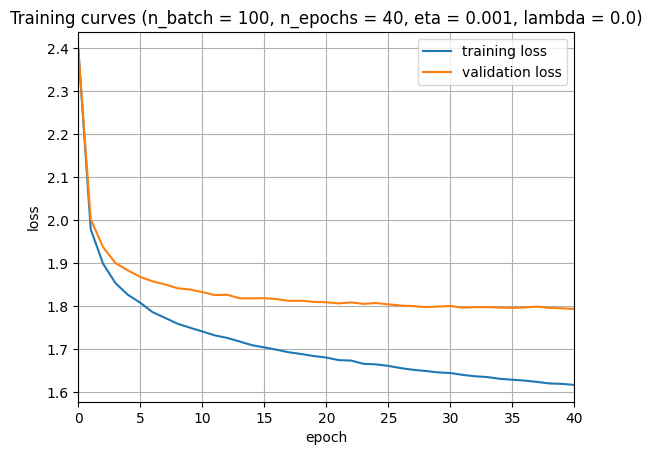
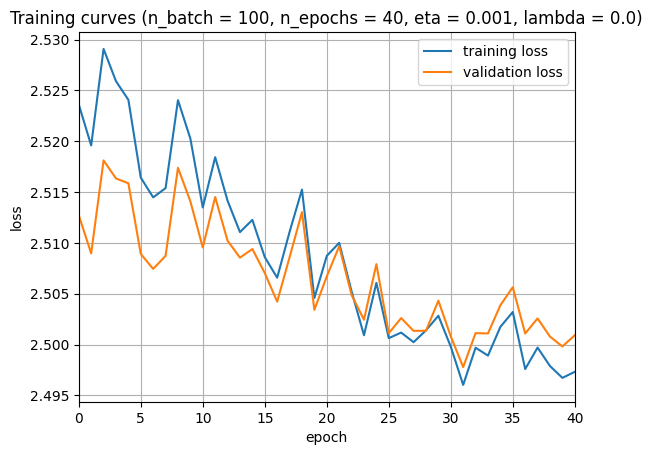
two layer classifier working

diff --git a/src/nnClassifier/models/train_model.py b/src/nnClassifier/models/train_model.py
@@ -2,6 +2,7 @@ import numpy as np
 import matplotlib.pyplot as plt
 import tqdm
 import json
+import copy
 from abc import ABC, abstractmethod
 from typing import List
 
@@ -30,6 +31,7 @@ class Model(ABC):
         self.Y_train = Y_train
         self.gd_params = gd_params
         self.lamda = lamda
+        self.validation = validation
         if validation:
             self.X_val = validation[0]
             self.Y_val = validation[1]
@@ -49,7 +51,7 @@ class Model(ABC):
     def _compute_gradients(self, X_batch: np.ndarray, Y_batch: np.ndarray, Ws: List[np.ndarray], bs: List[np.ndarray]):
         pass
 
-    def compute_grads_num_slow(self, X, Y, Ws, bs, lamda=0.0, h=1e-6):
+    def compute_grads_num_slow(self, X, Y, Ws, bs, h=1e-6):
         grads_W = [np.zeros(W.shape) for W in Ws]
         grads_b = [np.zeros(b.shape) for b in bs]
 
@@ -59,11 +61,11 @@ class Model(ABC):
                 b_try[i] -= h
                 bs_try = bs[:]
                 bs_try[layer] = b_try
-                c1 = self.compute_cost(X, Y, Ws, bs_try, lamda)
+                c1 = self._compute_cost(X, Y, Ws, bs_try)
 
                 b_try[i] += 2*h
                 bs_try[layer] = b_try
-                c2 = self.compute_cost(X, Y, Ws, bs_try, lamda)
+                c2 = self._compute_cost(X, Y, Ws, bs_try)
 
                 grads_b[layer][i] = (c2 - c1) / (2 * h)
 
@@ -73,28 +75,31 @@ class Model(ABC):
                     W_try[i, j] -= h
                     Ws_try = Ws[:]
                     Ws_try[layer] = W_try
-                    c1 = self.compute_cost(X, Y, Ws_try, bs, lamda)
+                    c1 = self._compute_cost(X, Y, Ws_try, bs)
 
                     W_try[i, j] += 2*h
                     Ws_try[layer] = W_try
-                    c2 = self.compute_cost(X, Y, Ws_try, bs, lamda)
+                    c2 = self._compute_cost(X, Y, Ws_try, bs)
 
                     grads_W[layer][i, j] = (c2 - c1) / (2 * h)
 
         return grads_W, grads_b
 
     def _compute_cost(self, X: np.ndarray, Y: np.ndarray, Ws: List[np.ndarray], bs: List[np.ndarray]):
-        P = self._evaluate_classifier(X, Ws, bs)
+        P = self._evaluate_classifier(X, Ws, bs)[-1]
         fact = 1/X.shape[1]
         if self.mbce:
             lcross_sum = np.sum(
                 (-1/N_CLASSES)*np.diag((np.ones_like(Y) - Y).T @ np.log(1 - P) + Y.T @ np.log(P)))
         else:
             lcross_sum = np.sum(np.diag(-Y.T@np.log(P)))
-        return fact*lcross_sum + self.lamda*np.sum(np.ravel(np.array(Ws)**2))
+        reg_sum = 0
+        for W in Ws:
+            reg_sum += np.sum(np.ravel(W**2))
+        return fact*lcross_sum + self.lamda*reg_sum
 
     def mini_batch_gd(self, gd_params, grid_search=False):
-        Ws_train, bs_train = np.copy(self.Ws), np.copy(self.bs)
+        Ws_train, bs_train = copy.deepcopy(self.Ws), copy.deepcopy(self.bs)
         train_costs = [self._compute_cost(
             self.X_train, self.Y_train, Ws_train, bs_train)]
         val_costs = [self._compute_cost(
@@ -108,13 +113,13 @@ class Model(ABC):
                 end = j*n_batch
                 perm = np.random.permutation(n)
                 X_batch = self.X_train[:, perm][:, start:end]
-                Y_batch = self.Y[:, perm][:, start:end]
+                Y_batch = self.Y_train[:, perm][:, start:end]
                 grads = self._compute_gradients(
                     X_batch, Y_batch, Ws_train, bs_train)
                 for idx, W_grad in enumerate(grads[0]):
-                    Ws_train[idx] -= eta*W_grad
+                    Ws_train[idx] -= eta*W_grad[0]
                 for idx, b_grad in enumerate(grads[1]):
-                    bs_train[idx] -= eta*b_grad
+                    bs_train[idx] -= eta*b_grad[0]
             current_train_loss = self._compute_cost(
                 self.X_train, self.Y_train, Ws_train, bs_train)
             print(f"\t * Train loss: {current_train_loss}")
@@ -124,34 +129,38 @@ class Model(ABC):
                     self.X_val, self.Y_val, Ws_train, bs_train)
                 print(f"\t * Validation loss: {current_val_loss}")
                 val_costs.append(current_val_loss)
-                if self.adaptive and (i+1) % 10 == 0:
+                if self.step_decay and (i+1) % 10 == 0:
                     eta /= 10
         if not grid_search:
             self.Ws_trained = Ws_train
             self.bs_trained = bs_train
         return Ws_train, bs_train, train_costs, val_costs
 
-    def validate_gradient(self, X, Y, Ws, bs, lamda=0.0, h=1e-6, eps=1e-10):
-        ga_W = self.compute_gradients(X, Y, Ws, bs, 0.0)[0]
-        gn_W = self.compute_grads_num_slow(X, Y, Ws, bs, 0.0, h)[0]
-        rel_err_W = np.zeros_like(ga_W)
+    def validate_gradient(self, X, Y, h=1e-6, eps=1e-10):
+        n_features = X.shape[0]
+        reduced_Ws = []
+        for W in self.Ws:
+            reduced_Ws.append(W[:, :n_features])
+        ga_W = self._compute_gradients(X, Y, reduced_Ws, self.bs)[0]
+        gn_W = self.compute_grads_num_slow(X, Y, reduced_Ws, self.bs, h)[0]
+        rel_err_W = np.zeros((len(ga_W), ga_W[0].shape[0], ga_W[0].shape[1]))
         for k in range(2):
             for i in range(ga_W[k].shape[0]):
                 for j in range(ga_W[k].shape[1]):
-                    rel_err_W[i, j] = (np.abs(ga_W[k][i, j] - gn_W[k][i, j])) / \
+                    rel_err_W[k, i, j] = (np.abs(ga_W[k][i, j] - gn_W[k][i, j])) / \
                         (max(eps, np.abs(ga_W[k][i, j]) +
                          np.abs(gn_W[k][i, j])))
-        ga_b = self.compute_gradients(X, Y, Ws, bs, 0.0)[1]
-        gn_b = self.compute_grads_num_slow(X, Y, Ws, bs, 0.0, h)[1]
-        rel_err_b = np.zeros_like(ga_b)
+        ga_b = self._compute_gradients(X, Y, reduced_Ws, self.bs)[1]
+        gn_b = self.compute_grads_num_slow(X, Y, reduced_Ws, self.bs, h)[1]
+        rel_err_b = np.zeros((len(ga_b), ga_b[0].shape[0]))
         for k in range(2):
-            for i in range(ga_b.shape[0]):
-                rel_err_b[i] = (np.abs(ga_b[k][i] - gn_b[k][i])) / \
+            for i in range(ga_b[k].shape[0]):
+                rel_err_b[k, i] = (np.abs(ga_b[k][i] - gn_b[k][i])) / \
                     (max(eps, np.abs(ga_b[k][i]) + np.abs(gn_b[k][i])))
         return max(np.max(rel_err_W), np.max(rel_err_b))
 
     def compute_accuracy(self, X, y, Ws, bs):
-        P = self._evaluate_classifier(X, Ws, bs)
+        P = self._evaluate_classifier(X, Ws, bs)[-1]
         y_pred = np.argmax(P, axis=0)
         correct = y_pred[y == y_pred].shape[0]
         return correct / y_pred.shape[0]
@@ -186,8 +195,14 @@ class Model(ABC):
             json.dump(grid_res[1], f)
         print(f"Best accuracy: {grid_res[1][-1][grid_res[0]]}")
 
-    def run_training(self, gd_params, savepath):
-        _, _, train_costs, val_costs = self.mini_batch_gd(gd_params)
+    def run_training(self, gd_params, savepath, test_data = None):
+        Ws_train, bs_train, train_costs, val_costs = self.mini_batch_gd(gd_params)
+
+        if test_data:
+            (X_test, y_test) = test_data
+            accuracy = self.compute_accuracy(X_test, y_test, Ws_train, bs_train)
+            print(f"Accuracy on test data: {accuracy}")
+
         plt.plot(np.arange(0, gd_params["n_epochs"] + 1),
                  train_costs, label="training loss")
         plt.plot(np.arange(0, gd_params["n_epochs"] + 1),
@@ -219,7 +234,7 @@ class OneLayerClassifier(Model):
             P = sigmoid(s)
         else:
             P = softmax(s)
-        return P
+        return [P]
 
     def _compute_gradients(self, X_batch, Y_batch, Ws, bs):
         if self.mbce:
@@ -266,7 +281,7 @@ class TwoLayerClassifier(Model):
             P = sigmoid(s)
         else:
             P = softmax(s)
-        return H, P
+        return [H, P]
 
     def _compute_gradients(self, X_batch, Y_batch, Ws, bs):
         nb = X_batch.shape[1]

diff --git a/main.py b/main.py
@@ -1,0 +1,31 @@
+import sys
+from pathlib import Path
+
+import numpy as np
+
+from nnClassifier import logger
+
+from nnClassifier.data.make_dataset import make_splits
+from nnClassifier.features.build_features import normalize_splits
+from nnClassifier.models.train_model import OneLayerClassifier, TwoLayerClassifier
+from nnClassifier.models.predict_model import predict
+
+def main(seed):
+    np.random.seed(seed)
+
+    splits_norm = normalize_splits(make_splits("data_batch_1", "data_batch_2", "test_batch"))
+    X_train, Y_train, _ = splits_norm["train"]
+    X_val, Y_val, y_val = splits_norm["validation"]
+    X_test, _, y_test = splits_norm["test"]
+
+    gd_params = {"n_batch": int(sys.argv[1]), "n_epochs": int(sys.argv[2]), "eta": float(sys.argv[3])}
+    lamda = float(sys.argv[4])
+
+    savepath = f"./reports/figures/training_curves_{gd_params['n_batch']}_{gd_params['n_epochs']}_{gd_params['eta']}_{lamda}.png"
+
+    model = TwoLayerClassifier(X_train, Y_train, gd_params, lamda=lamda, validation=(X_val, Y_val, y_val), seed=seed)
+    model.run_training(gd_params, savepath, test_data=(X_test, y_test))
+    #print(f"Maximum difference between numerical and analytical gradients: {model.validate_gradient(X_train[:50, :20], Y_train[:50, :20], h=1e-5, eps=1e-10)}")
+
+if __name__ == '__main__':
+    main(400)

diff --git a/src/nnClassifier/data/make_dataset.py b/src/nnClassifier/data/make_dataset.py
@@ -9,7 +9,7 @@ from dotenv import find_dotenv, load_dotenv
 
 import numpy as np
 
-PROJECT_DIR = Path(__file__).resolve().parents[2]
+PROJECT_DIR = Path(__file__).resolve().parents[3]
 DATA_DIR = f"{PROJECT_DIR}/data"
 DATASET_ARCHIVE = "cifar-10-python.tar.gz"
 DATASET_DIR = "cifar-10-batches-py"
@@ -86,9 +86,3 @@ def make_splits_full(test_data, val_size = 1000):
 	splits["validation"] = (X_val, Y_val, y_val)
 	splits["test"] = load_data(test_data)
 	return splits
-
-if __name__ == '__main__':
-    log_fmt = '%(asctime)s - %(name)s - %(levelname)s - %(message)s'
-    logging.basicConfig(level=logging.INFO, format=log_fmt)
-    load_dotenv(find_dotenv())
-    get_raw_data()

diff --git a/README.md b/README.md
@@ -1,4 +1,4 @@
 cifar10_nn
 ==============================
 
-A deep learning project fon the CIFAR-10 dataset.
+A deep learning project for the CIFAR-10 dataset.
